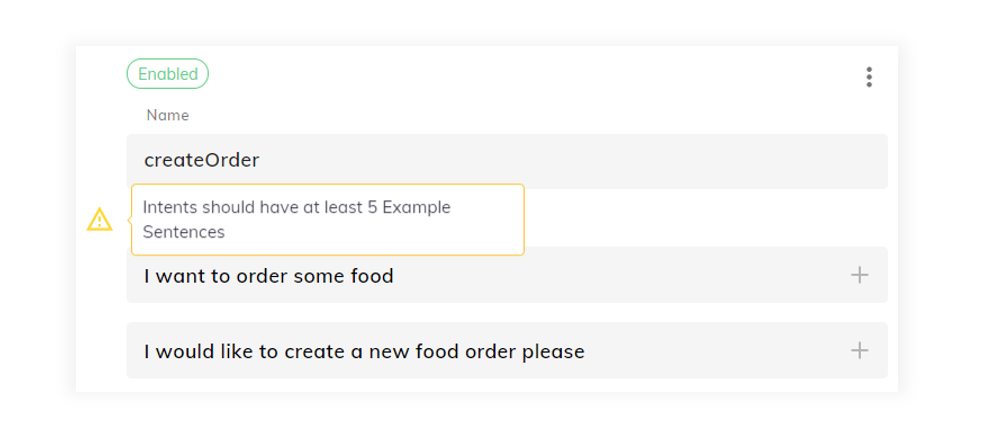
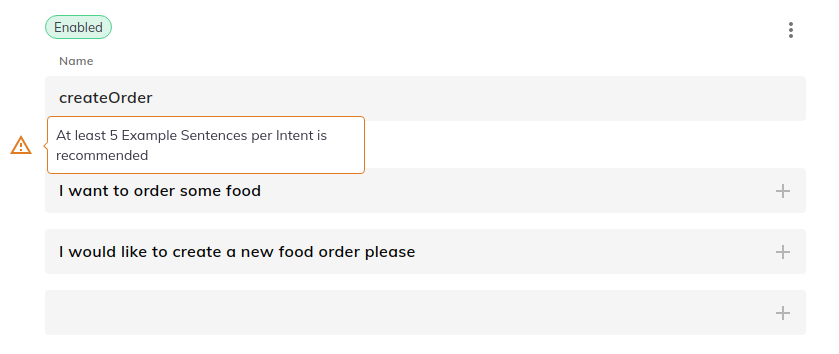
Add documentation regarding too many example sentences warning

diff --git a/docs/en/docs/ai/nlu/nlu-overview/ml-intents.md b/docs/en/docs/ai/nlu/nlu-overview/ml-intents.md
@@ -62,7 +62,7 @@ This is where creators are given the power to add unique levels of customized un
 
 Even though each Intent can have up to 2000 example sentences, we recommend a minumum of 5 and a maximum of 100. These sentences should be a broad range of possible user inputs that are expected to activate the Intent. Building a comprehensive example sentence list is a critical step in the process of building a smart AI service.
 
-When entering the example sentences you can use the **ENTER** key to go to the next NLU example sentence field.
+When entering the example sentences you can use the **TAB** or **ENTER** key to go to the next NLU example sentence field.
 
 <figure>
   <img class="image-center" src="{{config.site_url}}ai/nlu/images/f97faca-exampleSentences.PNG" width="100%" />
@@ -72,11 +72,18 @@ When entering the example sentences you can use the **ENTER** key to go to the n
 ???+ warning "Avoid Repetition"
     Rather than writing similar sentences for different entity names i.e. `I want to order Pizza, I want to order Pasta...` build and attach a Lexicon to the flow that can be [Annotated]({{config.site_url}}ai/nlu/nlu-overview/annotations/) into your sentence.
 
-A minimum of 5 example sentences are required for each Machine Learning Intent to ensure the NLU model can be sufficiently trained. If the minimum of 5 example sentences is not reached, a yellow warning icon will be displayed to prompt the user for further sentences. Any attempt at training the intents when less than 5 example sentences have been added will result in an error message being displayed.
+As stated previously, a minimum of 5 and a maximum of 100 example sentences per Intent is recommended to ensure that the NLU model is sufficiently trained. If the minimum threshold is not reached or if the maximum threshold is surpassed, a warning icon will be displayed to prompt the user to add or remove example sentences.
 
 <figure>
   <img class="image-center" src="{{config.site_url}}ai/nlu/images/87fee07-minSentenceWarning.PNG" width="100%" />
   <figcaption>Machine Learning Intents: Minimum Example Sentence warning</figcaption>
+</figure>
+
+Any attempt at training the Intents with less than 5 example sentences will result in a negative feedback once the build completes.
+
+<figure>
+  <img class="image-center" src="{{config.site_url}}ai/nlu/images/87fee07-minSentenceNegativeFeedback.PNG" width="100%" />
+  <figcaption>Negative Feedback after training Intents with less than 5 Example Sentences</figcaption>
 </figure>
 
 Intent example sentences should be as distinct and unique as possible. If there is too much similarity and overlap with other intents, then the intent mapping will become less predictable and, if configured, intent confirmation sentences will be triggered more frequently.
